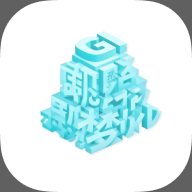
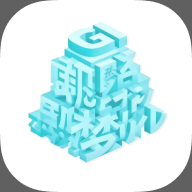
fix: 同步 PWA 图标名称并由插件管理

Changed region(s): [[0.125, 0.0938, 0.875, 0.8438]]

diff --git a/docs/sw.js b/docs/sw.js
@@ -1,1 +1,1 @@
-if(!self.define){let e,i={};const s=(s,n)=>(s=new URL(s+".js",n).href,i[s]||new Promise(i=>{if("document"in self){const e=document.createElement("script");e.src=s,e.onload=i,document.head.appendChild(e)}else e=s,importScripts(s),i()}).then(()=>{let e=i[s];if(!e)throw new Error(`Module ${s} didn’t register its module`);return e}));self.define=(n,r)=>{const t=e||("document"in self?document.currentScript.src:"")||location.href;if(i[t])return;let o={};const f=e=>s(e,t),l={module:{uri:t},exports:o,require:f};i[t]=Promise.all(n.map(e=>l[e]||f(e))).then(e=>(r(...e),o))}}define(["./workbox-8c29f6e4"],function(e){"use strict";self.skipWaiting(),e.clientsClaim(),e.precacheAndRoute([{url:"registerSW.js",revision:"860123635b335bb18aab571d2e5757d0"},{url:"index.html",revision:"a75e60007688310979790fe39e1244f6"},{url:"assets/index-DJkW69Cy.js",revision:null},{url:"assets/index-BO7fKXK8.css",revision:null},{url:"pwa-192x192.png",revision:"5b76fb94edfed4075932f963a907d7d5"},{url:"pwa-512x512.png",revision:"85e99eaf925af861cfee3aa959c9673f"},{url:"manifest.webmanifest",revision:"efcf8d4f1201afd7daeb9572e5758296"}],{}),e.cleanupOutdatedCaches(),e.registerRoute(new e.NavigationRoute(e.createHandlerBoundToURL("index.html")))});
+if(!self.define){let e,i={};const s=(s,n)=>(s=new URL(s+".js",n).href,i[s]||new Promise(i=>{if("document"in self){const e=document.createElement("script");e.src=s,e.onload=i,document.head.appendChild(e)}else e=s,importScripts(s),i()}).then(()=>{let e=i[s];if(!e)throw new Error(`Module ${s} didn’t register its module`);return e}));self.define=(n,r)=>{const t=e||("document"in self?document.currentScript.src:"")||location.href;if(i[t])return;let o={};const l=e=>s(e,t),d={module:{uri:t},exports:o,require:l};i[t]=Promise.all(n.map(e=>d[e]||l(e))).then(e=>(r(...e),o))}}define(["./workbox-8c29f6e4"],function(e){"use strict";self.skipWaiting(),e.clientsClaim(),e.precacheAndRoute([{url:"registerSW.js",revision:"860123635b335bb18aab571d2e5757d0"},{url:"index.html",revision:"a75e60007688310979790fe39e1244f6"},{url:"assets/index-DJkW69Cy.js",revision:null},{url:"assets/index-BO7fKXK8.css",revision:null},{url:"pwa-192x192.png",revision:"e1048501166be7ea5bcdd73b6820b514"},{url:"pwa-512x512.png",revision:"e908d0e82b67ad850bbba467b70bf7b5"},{url:"manifest.webmanifest",revision:"efcf8d4f1201afd7daeb9572e5758296"}],{}),e.cleanupOutdatedCaches(),e.registerRoute(new e.NavigationRoute(e.createHandlerBoundToURL("index.html")))});
